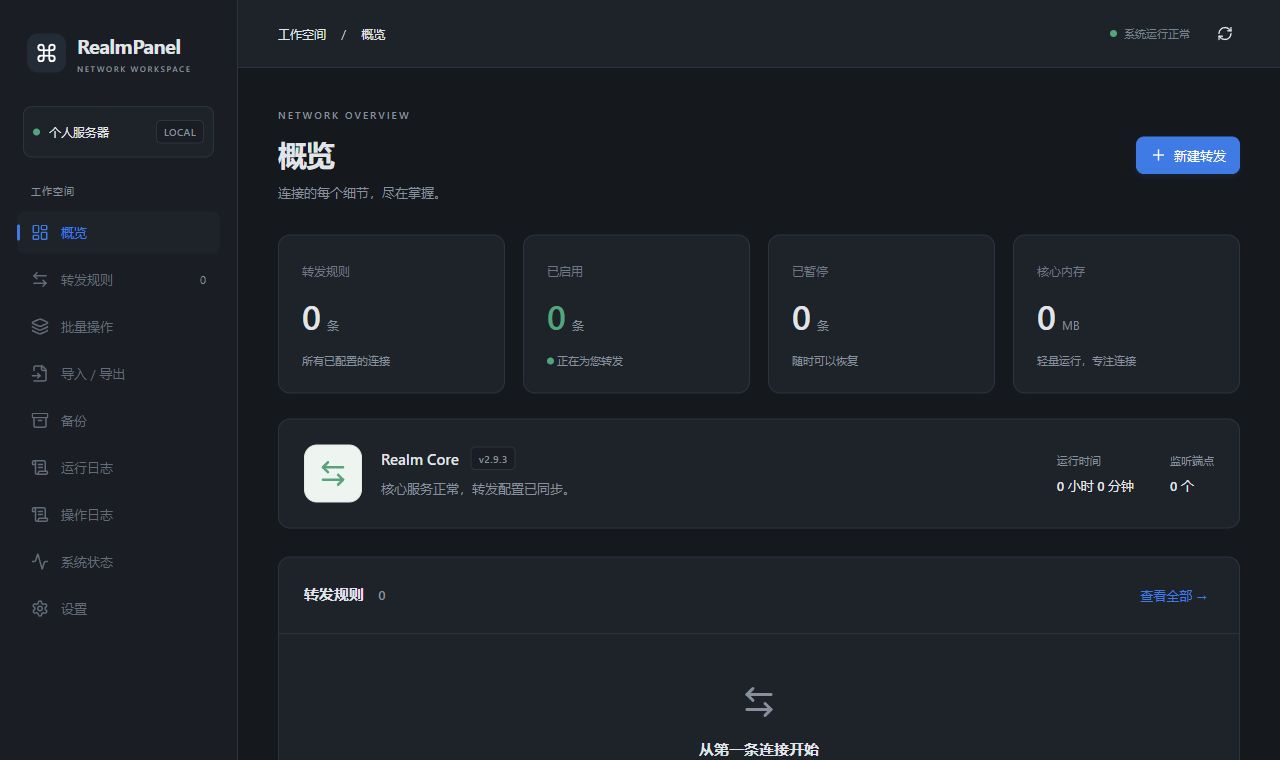
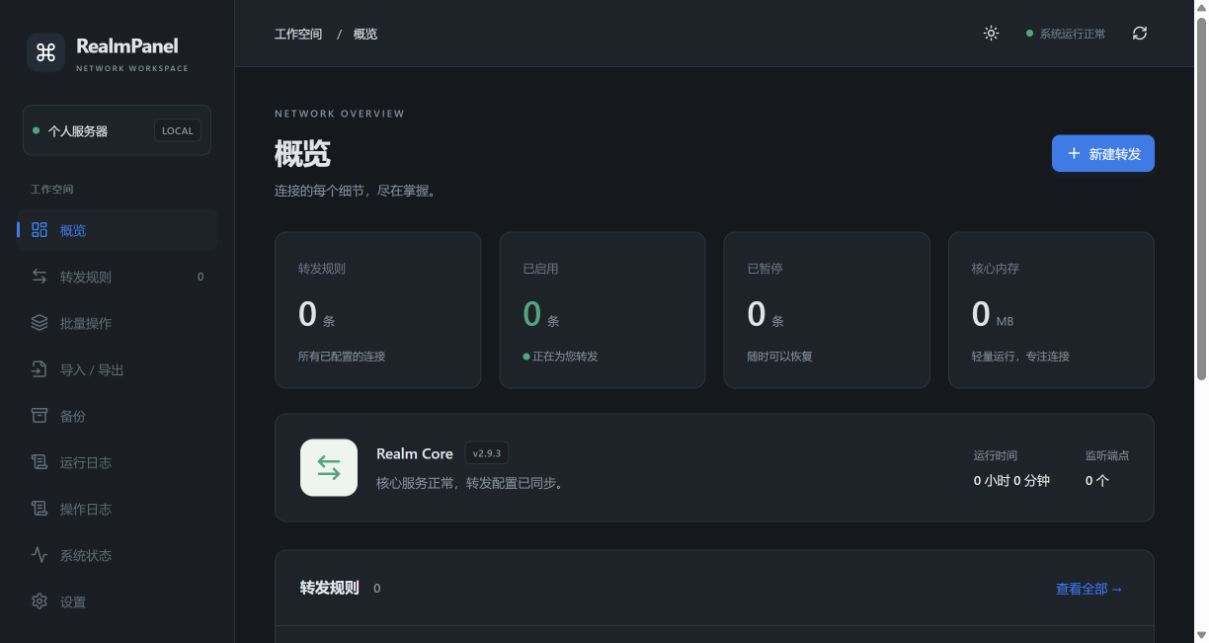
docs: record verified release and VPS upgrade [skip ci]

diff --git a/ACCEPTANCE.md b/ACCEPTANCE.md
@@ -1,6 +1,6 @@
 # 验收记录
 
-验收日期：2026-10-02（Asia/Shanghai）。第一版真实部署验收已完成；0.9.2 预编译发布流程正在验证。
+验收日期：2026-10-02（Asia/Shanghai）。第一版真实部署验收已完成；0.9.2 预编译发布流程全部通过。
 
 ## 已通过
 
@@ -13,6 +13,13 @@
 - 50/50 JSON 与 CSV 规则实际 API 往返，中文、协议、高级参数完整保留。
 - 用户授权后实际重启整台 VPS，通过 boot_id 变化确认；Docker、面板、持久化 TCP/UDP 规则和真实转发均自动恢复。测试规则已清理。
 - 首版空闲时两容器合计约 80 MB 内存，低于 150 MB 目标。
+- GitHub Actions 原生 amd64 / arm64 镜像构建及真实 TCP/UDP 验收通过；正式发布 [v0.9.2](https://github.com/xiaofujie369/RealmPanel/releases/tag/v0.9.2)。
+- Ubuntu 22.04 / 24.04 全新安装公开 Release 镜像、健康检查、真实转发及预编译升级通过。
+- Ubuntu 22.04 / 24.04、Debian 12 / 13、Rocky 9、AlmaLinux 9、Fedora 43、Alpine 3.23 容器内依赖及 Docker/Compose 软件包安装通过；此项不等同于所有系统完整虚拟机部署。
+- 独立 CI 环境实际创建 1 GiB Swap，验证权限、开机配置和重复执行不重复添加。
+- 提供的 VPS 从 0.9.0 使用预编译镜像升级至 0.9.2，健康检查及全部真实 TCP/UDP 验收通过；浏览器顶栏黑白主题切换通过，测试规则已清理。
+
+完整 CI 记录：[Actions 36924127539](https://github.com/xiaofujie369/RealmPanel/actions/runs/36924127539)。
 
 自动化原始报告保存在部署实例的 `/opt/realm-panel/artifacts/`，不包含登录密码。
 
@@ -24,7 +31,7 @@
 
 ## 不得冒充完成的验收
 
-- Ubuntu 22.04 / Ubuntu 24.04 / Debian 12 / Debian 13 四系统安装矩阵。
+- Debian 等其他发行版完整虚拟机上的全新安装及重启矩阵（Ubuntu 22.04 / 24.04 已验证全新安装）。
 - 两台独立 VPS 之间 50 条规则的迁移。
 - 在 Windows Excel 中人工编辑 CSV 后重新导入。
 - 实际新版本升级失败回滚及卸载（不可在交付实例上破坏性执行）。
